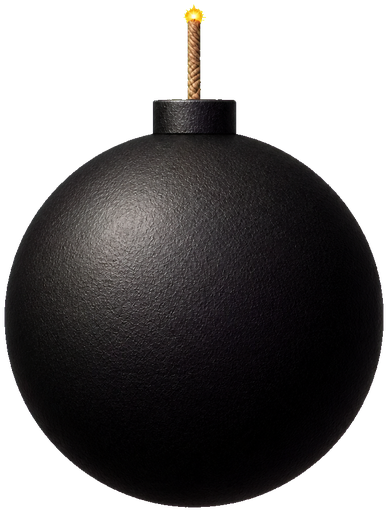
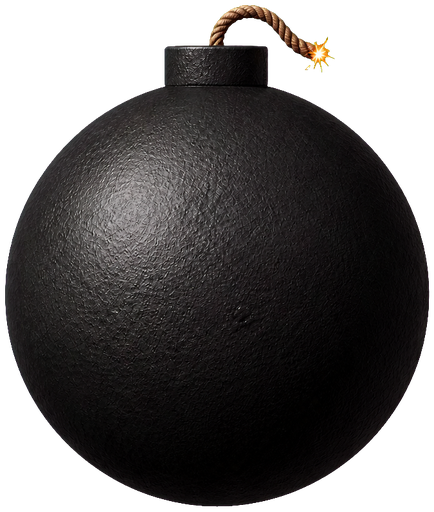
火薬玉の導火線を球の中央から生やし、口金を球の上へ出して球をマットに
- HUD用 png を再生成: 導火線が【口金の中央】から生え、縄の重みでゆるやかに
  片側へ弧を描く自然な形に(前版はまっすぐな棒だった)
- ゲーム内のコード導火線も付け根を厳密に中央へ(cx + r*0.02 → cx)。
  わずかでもずらすと「横から生えた」ように見える
- SVG本体: 口金を球の上へ出す(y 28..104 → 12..92。球の頂点は72なので
  以前は大半が球に隠れていた)。球の基調を暗くしてマットな鋳鉄に寄せる

diff --git a/js/weapon.js b/js/weapon.js
@@ -81,7 +81,8 @@ function drawFirebombFuse(ctx, cx, cy, radius, time, seeds, visualScale = 1) {
         Math.sin(swayPhase * 0.57 + 1.35) * 0.22
     ) * r * 0.060;
     const tipSwayY = Math.sin(swayPhase * 0.71 + 2.1) * r * 0.012;
-    const p0 = { x: cx + r * 0.02, y: collarY + r * 0.06 };
+    // 付け根は口金の中央(球の左右中央)。ここをずらすと「横から生えた」ように見える
+    const p0 = { x: cx, y: collarY + r * 0.06 };
     const p1 = {
         x: cx + r * 0.16 + tipSwayX * 0.10,
         y: collarY - r * 0.08 + tipSwayY * 0.08

diff --git a/js/ui.js b/js/ui.js
@@ -48,7 +48,7 @@ const BGM_ICON_PATHS = {
 };
 const WEAPON_ICON_PATHS = {
     '手裏剣': './images/hud_weapons/shuriken.png?v=20260718-6',
-    '火薬玉': './images/hud_weapons/bomb.png?v=20260811-3',
+    '火薬玉': './images/hud_weapons/bomb.png?v=20260811-4',
     '大槍': './images/hud_weapons/spear.png?v=20260718-6',
     '二刀流': './images/hud_weapons/dual.png?v=20260718-3',
     '鎖鎌': './images/hud_weapons/kusarigama.png?v=20260719-1',
